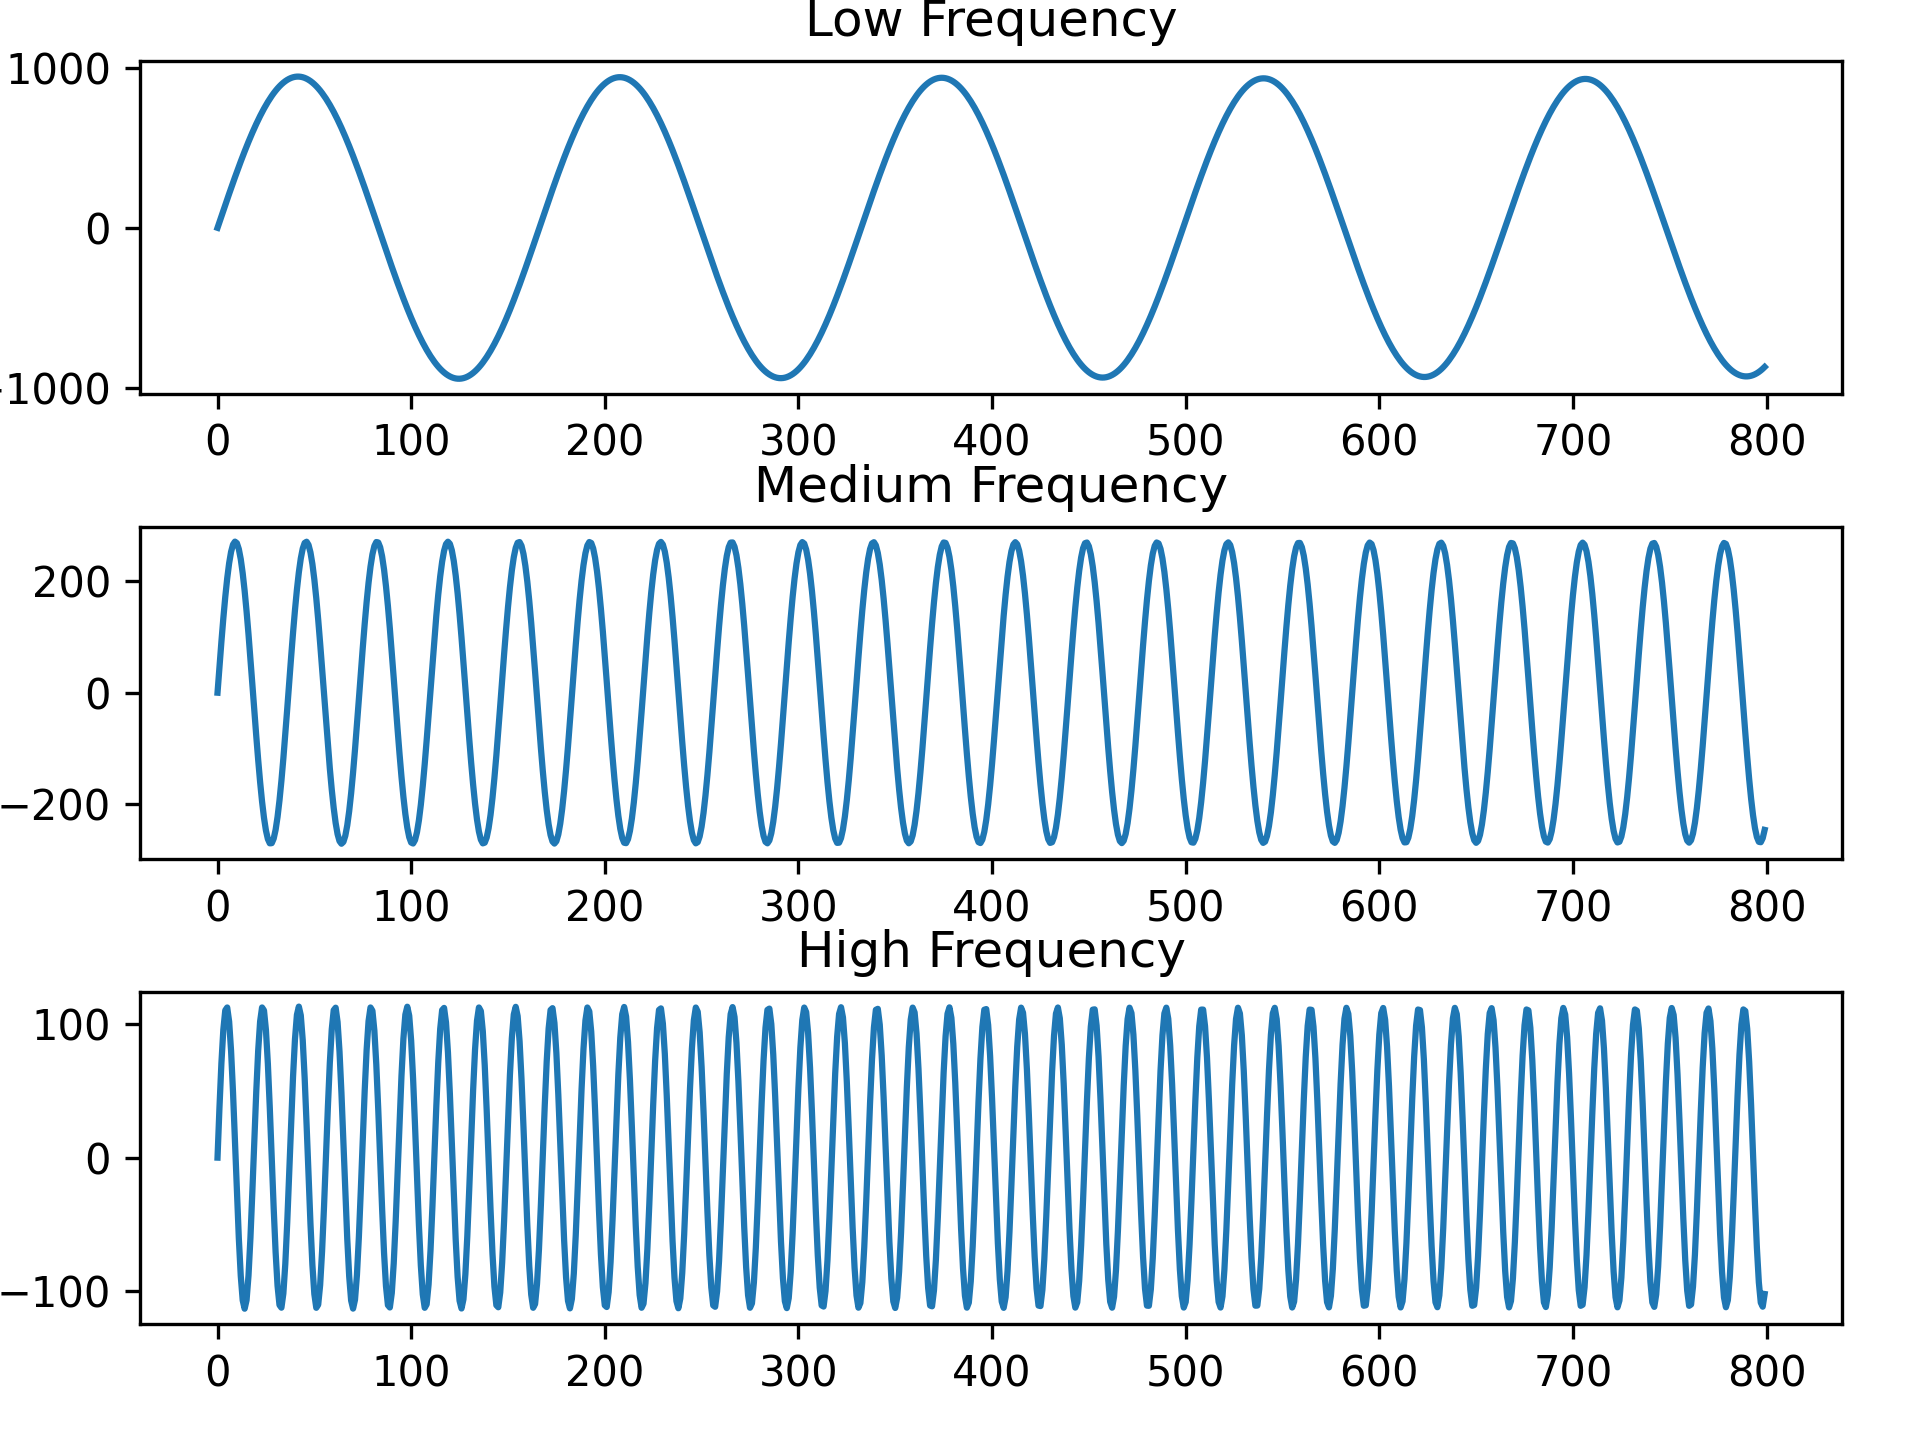
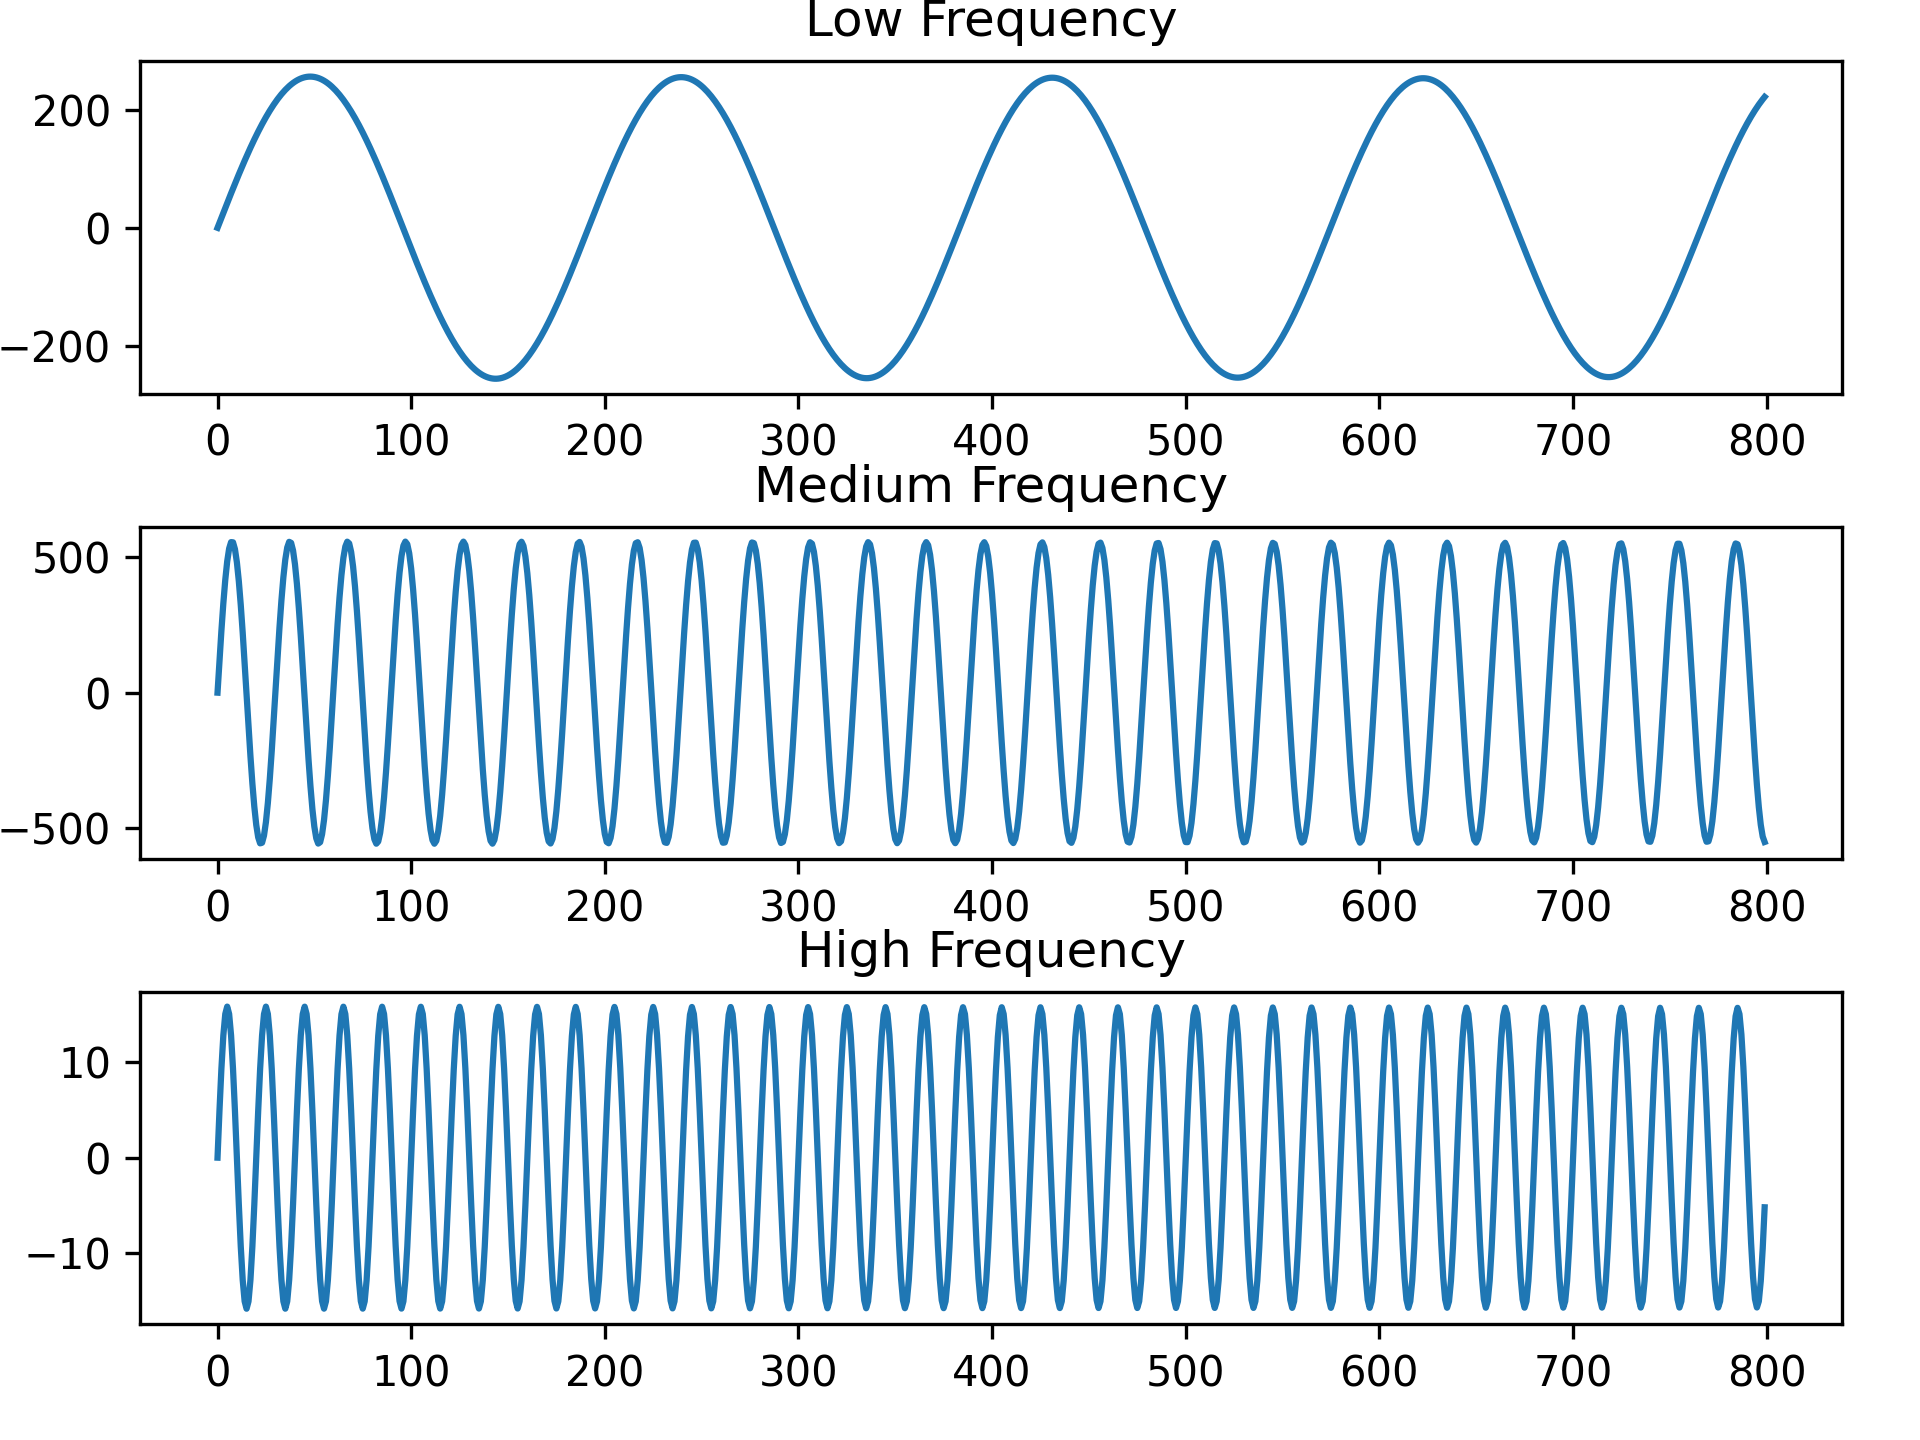
improve net

diff --git a/03_oscillating_timeseries_classification/main.py b/03_oscillating_timeseries_classification/main.py
@@ -20,7 +20,7 @@ data_module = OscillationDataModule(
         train_data="train_oscillation.csv",
         val_data="val_oscillation.csv",
         test_data="test_oscillation.csv",
-        batch_size=1,
+        batch_size=48,
     )
 
 data_module.setup()
@@ -29,59 +29,61 @@ data_module.setup()
 train_dataloader = data_module.train_dataloader()
 data = iter(train_dataloader)
 a, b = next(data)
-print(b)
-plt.plot(a.numpy().flatten())
-plt.savefig("osci.png", dpi=600)
+
+# print(b[0])
+# plt.plot(a[0].numpy().flatten())
+# plt.savefig("osci.png", dpi=600)
 
 
-# print("Oscillation Shape: ", a.shape)
-# print("Label Shape", b.shape)
+print("Oscillation Shape: ", a.shape)
+print("Label Shape: ", b.shape)
 
-# n_features = a.shape[1]
-# window_size = a.shape[2]
-# n_targets = 3   # Classifying as low, medium and high frequency
+n_features = a.shape[1]
+window_size = a.shape[2]
+n_targets = 3   # Classifying as low, medium and high frequency
 
-# # Defining Neural Net
-# net = CNN1D(
-#         n_features=n_features,
-#         n_targets=n_targets,
-#         window_size=window_size,
-#         feature_dim=5,
-#         kernel_size=6,
-#         stride=1,
-#         dropout=0.2
-#         )
+# Defining Neural Net
+net = CNN1D(
+        n_features=n_features,
+        n_targets=n_targets,
+        window_size=window_size,
+        feature_dim=5,
+        kernel_size=6,
+        stride=1,
+        dropout=0.2
+        )
 
-# # Defining Callbacks
-# checkpoint_callback = ModelCheckpoint(
-#     dirpath="training_output",
-#     filename="best-checkpoint",
-#     save_top_k = 2,
-#     verbose = True,
-#     monitor = "val_loss",
-#     mode = "min"
-# )
+# Defining Callbacks
+checkpoint_callback = ModelCheckpoint(
+    dirpath="training_output",
+    filename="best-checkpoint",
+    save_top_k = 2,
+    verbose = True,
+    monitor = "val_loss",
+    mode = "min"
+)
 
-# # Log to Tensor Board
-# logger = TensorBoardLogger("lightning_logs", name = "osci-predict")
+# Log to Tensor Board
+logger = TensorBoardLogger("lightning_logs", name = "osci-predict")
 
-# # Stop trainining if model is not improving
-# early_stopping_callback = EarlyStopping(monitor = "val_loss", patience = 3)
+# Stop trainining if model is not improving
+early_stopping_callback = EarlyStopping(monitor = "val_loss", patience = 3)
 
-# # Progress bar
-# progress_bar = TQDMProgressBar(refresh_rate=5)
+# Progress bar
+progress_bar = TQDMProgressBar(refresh_rate=5)
 
-# # Model
-# model = OscillationClassifier(net)
+# Model
+model = OscillationClassifier(net)
 
-# # Defining a Pytorch Lightning Trainer
-# N_EPOCHS = 5
-# trainer = pl.Trainer(
-#     logger = logger,
-#     enable_progress_bar=True,
-#     callbacks = [early_stopping_callback, early_stopping_callback, progress_bar],
-#     max_epochs = N_EPOCHS,
-#     accelerator='gpu',
-#     )
+# Defining a Pytorch Lightning Trainer
+N_EPOCHS = 20
+trainer = pl.Trainer(
+    logger = logger,
+    enable_progress_bar=True,
+    log_every_n_steps=2,
+    callbacks = [early_stopping_callback, early_stopping_callback, progress_bar],
+    max_epochs = N_EPOCHS,
+    accelerator='gpu',
+    )
 
-# trainer.fit(model, data_module)
+trainer.fit(model, data_module)

diff --git a/03_oscillating_timeseries_classification/models/cnn.py b/03_oscillating_timeseries_classification/models/cnn.py
@@ -29,11 +29,13 @@ class CNN1D(nn.Module):
         self.n_targets = n_targets
         self.activation = activation
         self.window_size = window_size
+        self.pooling = nn.MaxPool1d
 
 
         self.conv1 = nn.Sequential(
                             nn.Conv1d(self.n_features, feature_dim, kernel_size=kernel_size, 
                                       padding=kernel_size//2, stride=stride, bias=True), 
+                            self.pooling(2),
                             nn.BatchNorm1d(feature_dim, feature_dim),
                             self.activation
                             )
@@ -41,13 +43,15 @@ class CNN1D(nn.Module):
         self.conv2 = nn.Sequential(
                             nn.Conv1d(feature_dim, 2*feature_dim, kernel_size=3, 
                                       padding=1, stride=stride, bias=True), 
+                            self.pooling(2),
                             nn.BatchNorm1d(2*feature_dim, 2*feature_dim),
                             self.activation
                             )
 
         self.conv3 = nn.Sequential(
                             nn.Conv1d(2*feature_dim, 2*feature_dim, kernel_size=3, 
-                                      padding=1, stride=stride, bias=True), 
+                                      padding=1, stride=stride, bias=True),
+                            self.pooling(2),
                             nn.BatchNorm1d(2*feature_dim, 2*feature_dim),
                             self.activation
                             )
@@ -55,6 +59,7 @@ class CNN1D(nn.Module):
         self.conv4 = nn.Sequential(
                             nn.Conv1d(2*feature_dim, 2*feature_dim, kernel_size=3, 
                                       padding=1, stride=stride, bias=True), 
+                            self.pooling(2),
                             nn.BatchNorm1d(2*feature_dim, 2*feature_dim),
                             self.activation
                             )
@@ -62,6 +67,7 @@ class CNN1D(nn.Module):
         self.conv5 = nn.Sequential(
                             nn.Conv1d(2*feature_dim, 4*feature_dim, kernel_size=3, 
                                       padding=1, stride=stride, bias=True), 
+                            self.pooling(2),
                             nn.BatchNorm1d(4*feature_dim, 4*feature_dim),
                             self.activation
                             )
@@ -69,6 +75,7 @@ class CNN1D(nn.Module):
         self.conv6 = nn.Sequential(
                             nn.Conv1d(4*feature_dim, self.window_size*feature_dim, kernel_size=3, 
                                       padding=1, stride=stride, bias=True), 
+                            self.pooling(2),
                             nn.BatchNorm1d(self.window_size*feature_dim, self.window_size*feature_dim),
                             self.activation
                             )

diff --git a/03_oscillating_timeseries_classification/gen_oscillation_data.py b/03_oscillating_timeseries_classification/gen_oscillation_data.py
@@ -150,6 +150,7 @@ def train_validate_test_split(df, train_percent=.8, validate_percent=.15, seed=N
 train, validate, test = train_validate_test_split(dataset, train_percent=.8, 
                                                   validate_percent=.15, seed=42)
 
+train, validate, test = train.dropna(), validate.dropna(), test.dropna()
 
 print("Len Train Dataset: ", len(train))
 print("Len Validate Dataset: ", len(validate))
@@ -162,3 +163,13 @@ test.to_csv("test_oscillation.csv", index=False)
 print("Process Complete.")
 print("Datasets Generated and Saved as .csv's")
 
+## Sanity checking the data
+
+# print(train.isnull().values.any())
+# print(validate.isnull().values.any())
+# print(test.isnull().values.any())
+
+
+# print(train.isnull().sum().sum())
+# print(validate.isnull().sum().sum())
+# print(test.isnull().sum().sum())

diff --git a/03_oscillating_timeseries_classification/dataloading.py b/03_oscillating_timeseries_classification/dataloading.py
@@ -23,13 +23,13 @@ class OscillationDataset(Dataset):
 
     
     def __len__(self):
-        return self.labels.shape[0]
+        return self.oscillations.shape[0]
     
 
     def __getitem__(self, idx):
         oscillation = self.oscillations[idx][::self.downsampling_ratio].astype(np.float32)     # Downsampling the array
         # To normalise
-        oscillation = oscillation / np.max(oscillation)
+        #oscillation = oscillation / np.max(oscillation)
 
         label = self.labels[idx]
         return torch.Tensor(oscillation).unsqueeze(0), torch.tensor(label).long()   #torch.tensor(label, dtype=torch.float)

diff --git a/03_oscillating_timeseries_classification/classifier.py b/03_oscillating_timeseries_classification/classifier.py
@@ -7,7 +7,7 @@ from torchmetrics import Accuracy
 
 
 class OscillationClassifier(pl.LightningModule):
-    def __init__(self, model, learning_rate=1e-3):
+    def __init__(self, model, learning_rate=1e-5):
         super().__init__()
         self.model = model
         self.learning_rate = learning_rate
@@ -21,7 +21,7 @@ class OscillationClassifier(pl.LightningModule):
 
     def forward(self, x):
         x = self.model(x)
-        return x#F.log_softmax(x, dim=1)
+        return F.log_softmax(x, dim=1)
 
     def training_step(self, batch, batch_idx):
         oscillation, label = batch
